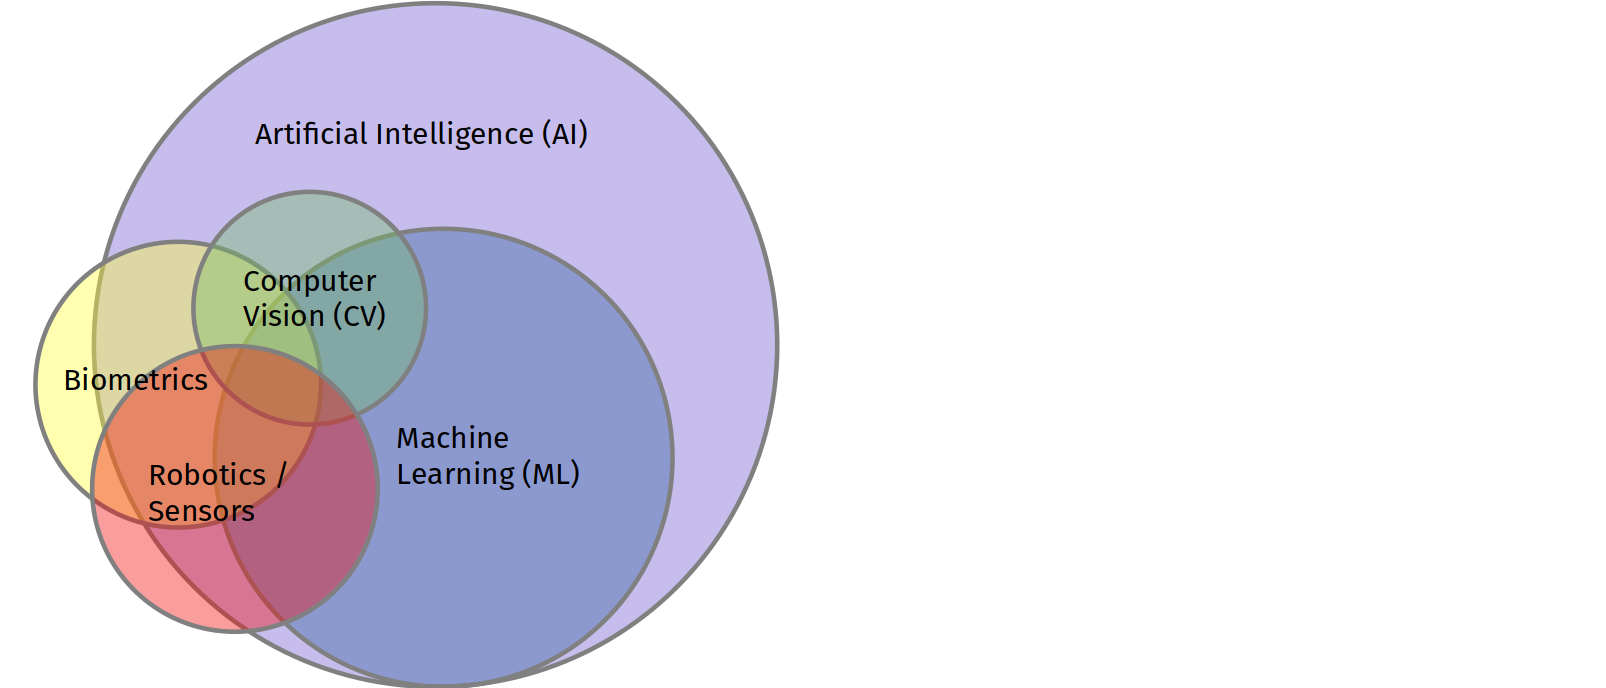
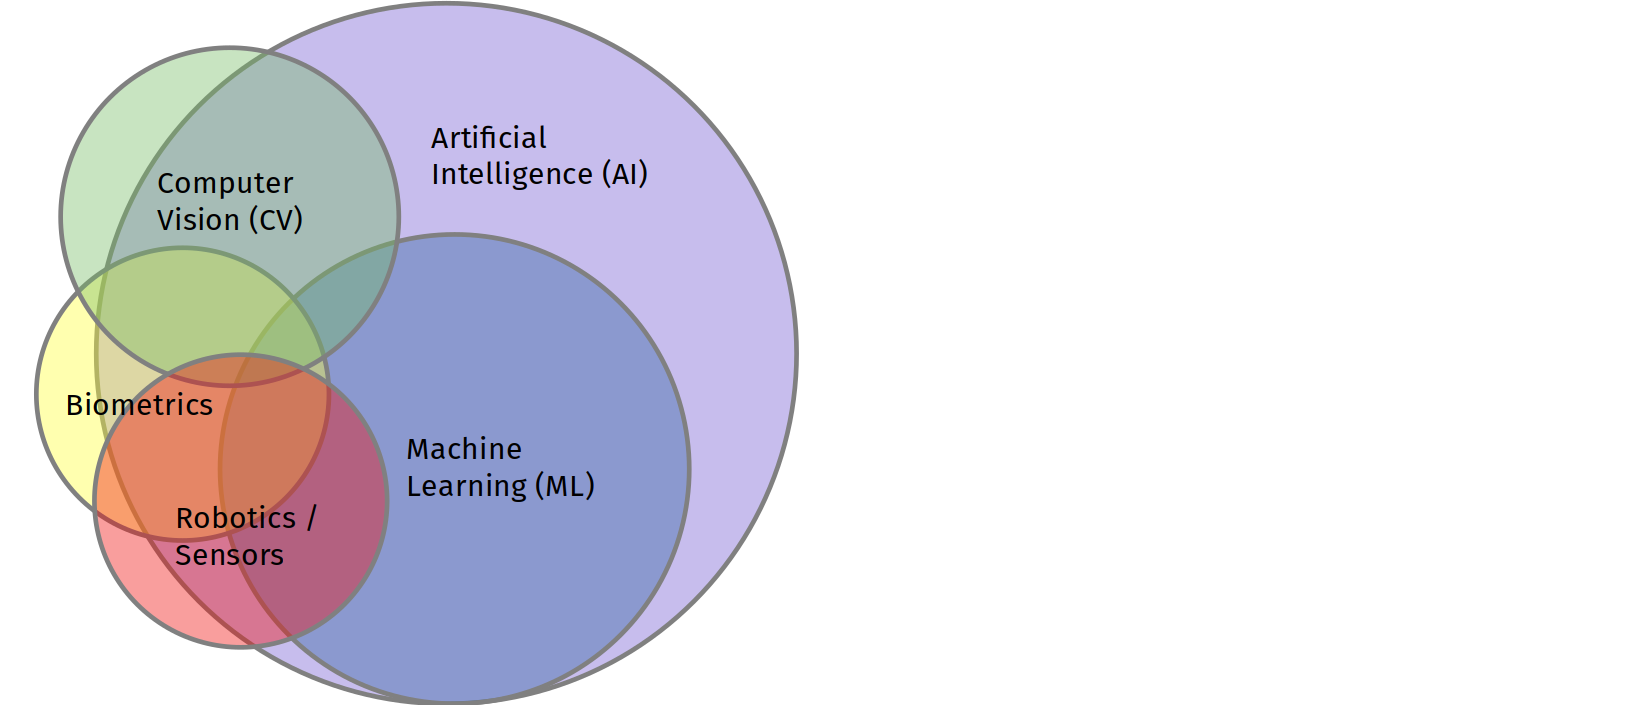
(rough) recovery from data loss in STEP 3

Changed region(s): [[0.0311, 0.061, 0.4047, 0.641], [0.0934, 0.6715, 0.1868, 0.8241], [0.2491, 0.6105, 0.3736, 0.702]]

diff --git a/Step-by-step_intro_to_ML_with_SVC_and_Iris.md b/Step-by-step_intro_to_ML_with_SVC_and_Iris.md
@@ -6,7 +6,7 @@ jupyter:
       extension: .md
       format_name: markdown
       format_version: '1.3'
-      jupytext_version: 1.14.0
+      jupytext_version: 1.13.7
   kernelspec:
     display_name: Python 3 (ipykernel)
     language: python
@@ -1082,8 +1082,9 @@ After exploring the dataset, in this step one has to decide on a specific ML alg
 
 However, since the AI or ML world is so huge and impossible for a ML novice to overlook, a brief description of the **relationship between AI and ML** is given in the following sections. Furthermore, a **taxonomy** of the different **learning types** is presented by also providing some example algorithms.
 
-## Short overview of the AI world and its ML algorithms
+## Short overview of the AI world
 
+<!--
 ### Relationship between AI, ML and others
 
 **@TODO:**
@@ -1094,27 +1095,54 @@ Include in this section the presentation `IFA_Steimers_KI_Grundlagen_Neuronaler_
 In the **science world**, the term **artificial intelligence (AI)** refers to machines and systems that are capable of performing tasks that are characteristic of human intelligence.
 
 In the **business world**, on the other hand, AI typically refers to mechanisms that perceive environmental factors and take autonomous actions. This is seen as an opportunity to achieve **predefined goals** with maximum success - without human intervention. Ultimately, this view is a mapping of **input information** to controlled **output actions** of a system. This expectation of AI-driven systems is thus hardly higher than what can be expected from today's modern automation systems.
+-->
 
-**Machine Learning (ML)**, on the other hand, addresses the mathematical models and algorithms that enable a computer system to recognize (new) correlations in huge amounts of sample data from various sources by inferring them independently. For scientists, machine learning is a subset of AI.
+Die Geschichte der Künstlichen Intelligenz (KI) mit der [Dartmouth Conference](https://en.wikipedia.org/wiki/Dartmouth_workshop) im Sommer 1956 als ihre Geburtsstunde ist durch mehrere aufeinanderfolgende Hype- und Tiefphasen (sog. [KI-Winter](https://de.wikipedia.org/wiki/KI-Winter)) geprägt. In den Hype-Phasen konnten durch die KI-Forscher viele neue Erkenntnisse gewonnen und interessante Anwendungsgebiete erschlossen werden. Allerdings gab es immer wieder Zeiten, in denen die nachweisbaren Erfolge weit hinter den vorher erweckten (überzogenen) Erwartungen zurückblieben. Die Folge waren ein nachlassendes Interesse an KI-Forschung und damit einhergehende drastische Kürzungen der Forschungsbudgets. Als potentielle Ursache für die oftmals kursierenden überzogenen Erwartungen an KI-Technologien können die hohe mediale Aufmerksamkeit in Kombination mit oftmals vagen und wenig trennscharfen Definitionen von Künstliche Intelligenz gesehen werden.
 
-The umbrella term AI covers a very large research area. It includes a number of techniques that enable computers to learn independently and solve complex problems:
+Durch den Erkenntniszuwachs aus der KI-Forschung sowie dem Erschließen neuer Anwendungsgebiete sind die Begriffe und insbesondere Definitionen in den letzten Jahrzehnten einer ständigen Änderung unterworfen.
 
+Die aktuell veröffentlichte Norm [ISO/IEC 22989:2022-07](https://webstore.iec.ch/publication/77839) wurde KI durch das SC 42 -Artificial Intelligence des JTC1 wie folgt definiert <cite data-cite="ISO_IEC_22989_2022-07">ISO/IEC 22989:2022-07</cite>
+
+Der Hauptteil der Definition beschreibt, was KI machen (soll):
+
+> [An **artificial intelligence system** is an] engineered system that generates outputs such as content, forecasts, recommendations or decisions for a given set of human-defined objectives.
+
+In einer Anmerkung werden die dafür notwendigen Techniken beschrieben:
+
+> [..] The engineered system can use various techniques and approaches related to artificial intelligence to develop a **model** to represent data, **knowledge**, processes, etc. which can be used to conduct **tasks**.
+
+knowledge: abstracted information about objects, events, concepts or rules, their relationships and properties, organized for goal-oriented systematic use
+
+model: physical, mathematical or otherwise logical representation of a system, entity, phenomenon, process or data
+
+task: action required to achieve a specific goal
+
+
+**Machine Learning (ML)** as a subset of AI, on the other hand, addresses the mathematical models and algorithms that enable a computer system to recognize (new) correlations in huge amounts of sample data from various sources by inferring them independently.
+
+The umbrella term AI covers a very large research area. It includes a number of techniques, like:
+
+- Supervised and Unsupervised Learning,
+- Reinforcement Learning and
+- Genetic Algorithms
+
+that enable computers to learn independently and solve complex problems in the field of, e.g.:
+ 
 - Computer-Vision (CV)
-- Supervised and Unsupervised Learning
-- Reinforcement Learning and Genetic Algorithms
-- Computational Linguistics
+- Computational Linguistics (CL)
 - Robotics
-- etc.
 
-The following Venn diagram shows the relationship between Artificial Intelligence (AI), Machine Learning (ML) and other integrated technologies. The quantities that do not belong to the main category represent techniques that can function as stand-alone techniques and do not necessarily fall into the artificial intelligence group in all cases (for further details see [Emerging technologies based on artificial intelligence to assess quality and consumer preference of beverages](https://www.researchgate.net/publication/336375517_Emerging_technologies_based_on_artificial_intelligence_to_assess_quality_and_consumer_preference_of_beverages)).
+The following Venn diagram shows the relationship between Artificial Intelligence (AI), Machine Learning (ML) and other integrated technologies. The quantities that do not belong to the main category represent techniques that can function as stand-alone techniques and do not necessarily fall into the artificial intelligence group in all cases (<cite data-cite="AI_beverages_2019">Gonzalez Viejo et al. 2019</cite>).
+
+Beispielsweise können einfache robotische Verhaltensmuster über fest vorprogrammierte **if-then-else-Entscheidungen** realisiert werden. Die [Erkennung von Objektkanten](https://en.wikipedia.org/wiki/Edge_detection) in Bildern kann klassischerweise durch die Anwendung z.B. von [Sobel-](https://en.wikipedia.org/wiki/Sobel_operator) oder [Laplace-Filtern](https://en.wikipedia.org/wiki/Laplace_operator) erfolgen. Daher wurde das Venn-Diagramm entsprechend angepasst.
 <!-- #endregion -->
 
 <!-- #region caption="" label="fig:AI_ML_venn_diagram" tags=[] widefigure=false -->
-![Venn diagram showing the relationship between Artificial Intelligence (AI), Machine Learning (ML) and other integrated technologies (source: Kasper, adapted from [Emerging technologies based on artificial intelligence to assess quality and consumer preference of beverages](https://www.researchgate.net/publication/336375517_Emerging_technologies_based_on_artificial_intelligence_to_assess_quality_and_consumer_preference_of_beverages), license: CC BY-SA 4.0)](images/AI_ML_venn_diagram_wide.png)
+![Venn diagram showing the relationship between Artificial Intelligence (AI), Machine Learning (ML) and other integrated technologies (source: Kasper, adapted from <cite data-cite="AI_beverages_2019">Gonzalez Viejo et al. 2019</cite>, license: CC BY-SA 4.0)](images/AI_ML_venn_diagram_wide.png)
 <!-- #endregion -->
 
 <!-- #region tags=[] -->
-### Taxonomy of machine learning
+## Taxonomy of machine learning algorithms
 
 The field of machine learning can be divided into the following **types of learning**:
 
@@ -1132,7 +1160,7 @@ Here are some further sources:
 - [Machine Learning Map](https://github.com/trekhleb/homemade-machine-learning#machine-learning-map)
 <!-- #endregion -->
 
-#### Supervised learning
+### Supervised learning
 
 The goal of **supervised learning (SL)** is to learn a **function** that maps a **input to an output**, based on example input-output pairs. This involves inferring a relationship describable by a mathematical function from **labeled training data** consisting of a set of training examples (see [Supervised Learning](https://en.wikipedia.org/wiki/Supervised_learning)).
 
@@ -1147,7 +1175,7 @@ A few well-known algorithms from the field of **supervised learning** are mentio
 - Random Forests
 
 
-#### Unsupervised learning
+### Unsupervised learning
 
 The algorithms of this category look for internal structures in the data of a dataset, such as **grouping** or **clustering of data points**. These algorithms can thus learn relationships from test data that have not been labeled, classified, or categorized. Rather than responding to feedback (as in supervised learning), unsupervised learning algorithms detect **commonalities in the data** and respond based on the presence or absence of such commonalities in each new dataset (see [Unsupervised learning](https://en.wikipedia.org/wiki/Machine_learning#Unsupervised_learning)).
 
@@ -1159,12 +1187,12 @@ Here are some algorithms from the field of **unsupervised learning**:
 - Principal Component Analysis (PCA)
 
 
-#### Semi-supervised learning
+### Semi-supervised learning
 
 This type of learning falls between **unsupervised** learning (without any labeled training data) and **supervised** learning (with completely labeled training data). Some of the training examples are missing training labels, yet many machine-learning researchers have found that unlabeled data, when used in conjunction with a small amount of labeled data, can produce a considerable improvement in learning accuracy (source: [Semi-supervised learning](https://en.wikipedia.org/wiki/Machine_learning#Semi-supervised_learning)).
 
 
-#### Reinforcement learning
+### Reinforcement learning
 
 This is an area of machine learning concerned with how **intelligent agents** ought to **take actions in an environment** in order to maximize the notion of cumulative **reward**. Due to its generality, the field is studied in many other disciplines, such as **game theory** and **control theory**.
 
